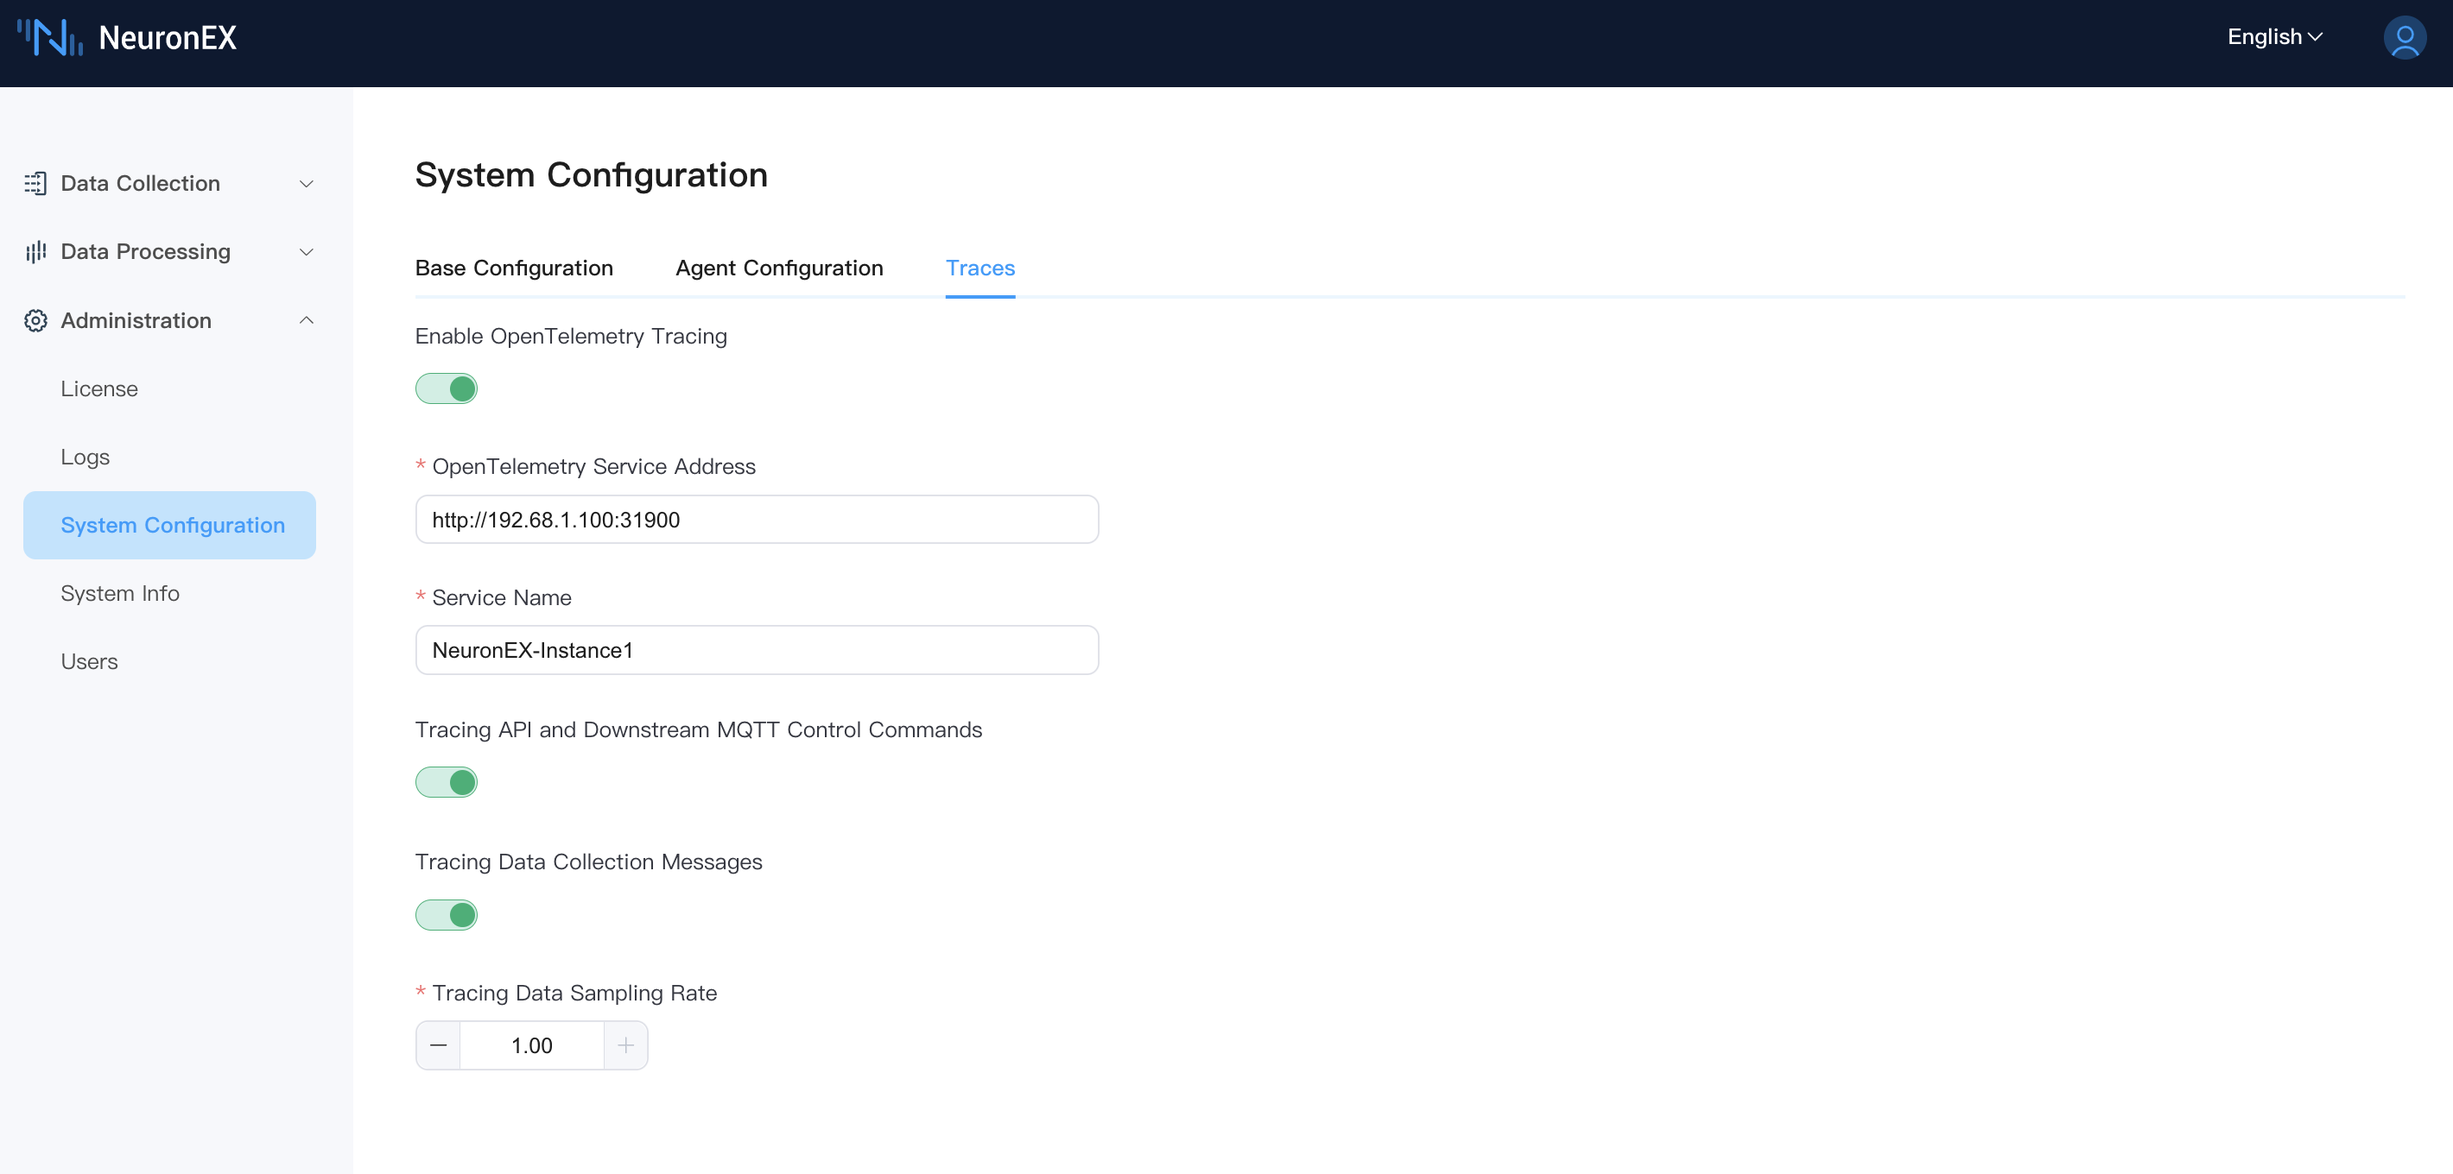
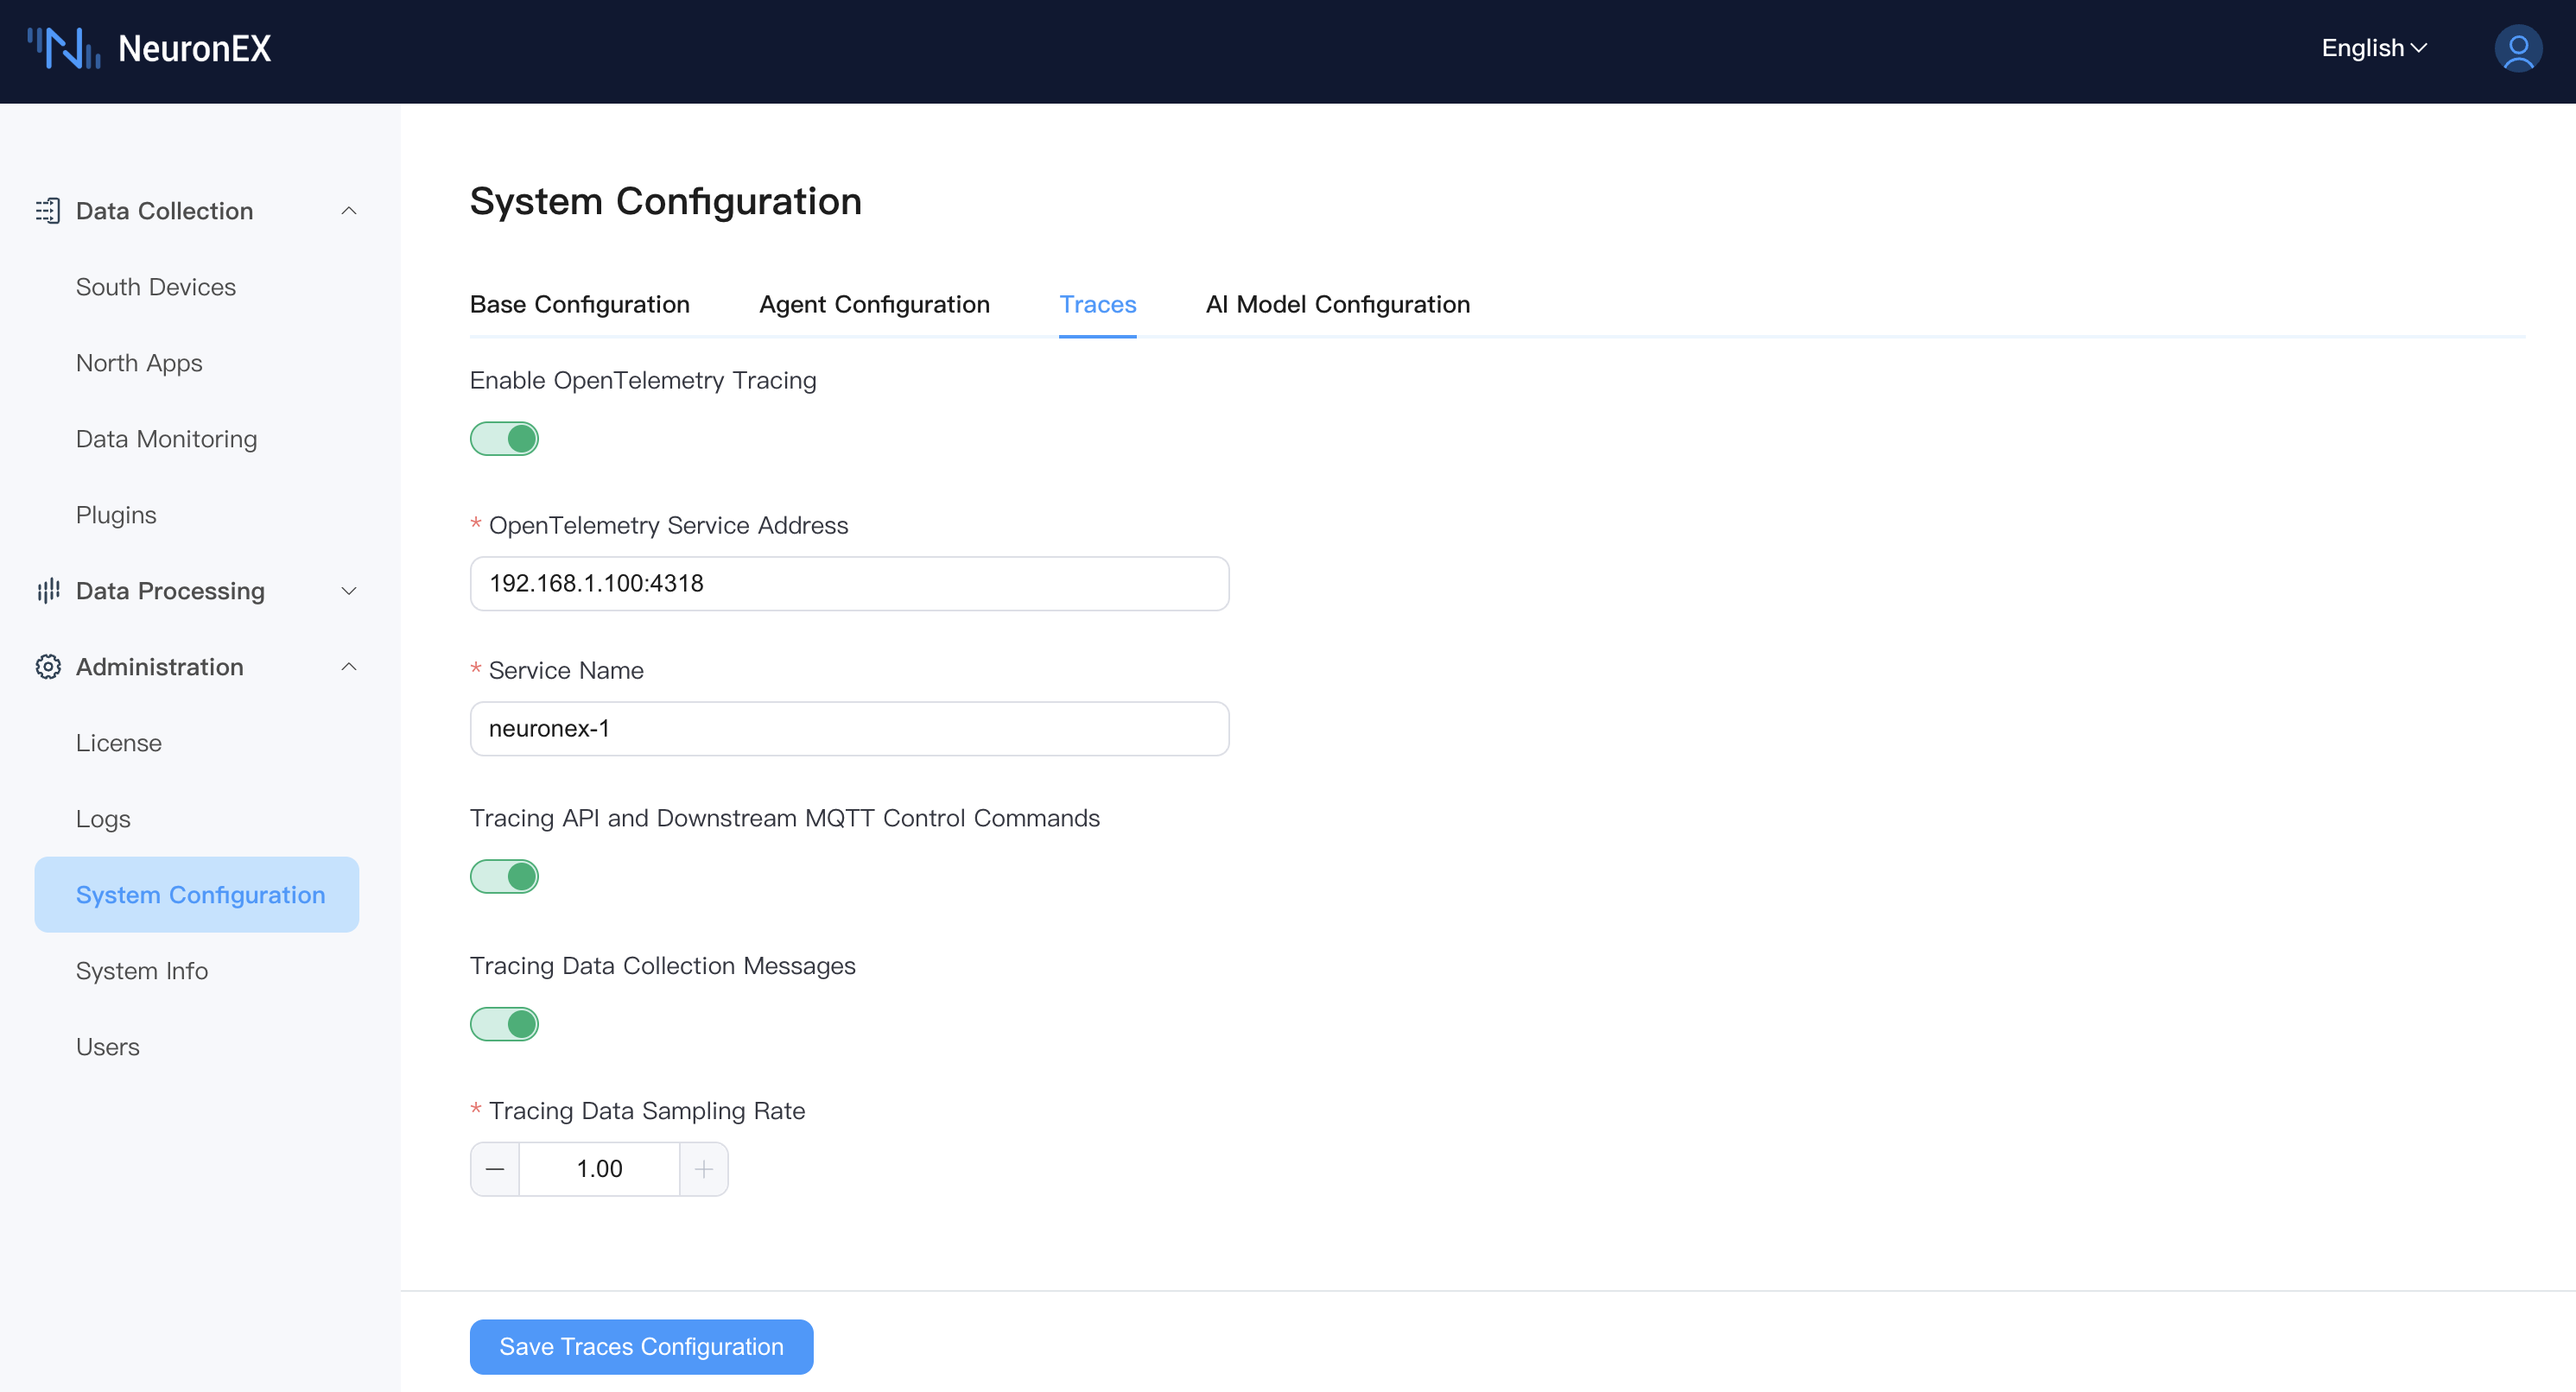
update trace

diff --git a/en_US/admin/sys-configuration.md b/en_US/admin/sys-configuration.md
@@ -131,9 +131,16 @@ The traces function is used to trace the detailed processing of data collection,
 ### Configuration Instructions
 - **Enable OpenTelemetry Tracing**: Enable the tracing function.
 - **OpenTelemetry Service Address**: Fill in the OpenTelemetry service address, and NeuronEX will send tracing data to this address. EMQX ECP integrates the OpenTelemetry service, and users can directly use the OpenTelemetry service address of EMQX ECP.
+
+::: tip
+
+The OpenTelemetry service address of EMQX ECP should use the [ip]:[port] format, such as `192.168.1.100:4318`, without the `http://` prefix.
+
+:::
+
 - **Service Name**: Fill in the service name. When NeuronEX reports tracing data, it will use this service name to distinguish the tracing data reported by different NeuronEX.
 - **Tracing API and Downstream MQTT Control Commands**: Enable tracing for API and downlink MQTT control commands. If using downlink MQTT control commands, the MQTT plugin's MQTT version must be set to 5.0 on the northbound application page.
-- **Tracing Data Collection Messages**: Enable tracing for data collection messages. Once enabled, NeuronEX will report all tracing data of southbound driver collection messages to the OpenTelemetry service. (Currently only supports FINS TCP and FINS UDP drivers)
+- **Tracing Data Collection Messages**: Enable tracing for data collection messages. Once enabled, NeuronEX will report all tracing data of southbound driver collection messages to the OpenTelemetry service. (Currently only supports FINS TCP、FINS UDP、Mitsubishi 3E、Mewtocol、Modbus RTU/TCP  drivers)
 - **Tracing Data Sampling Rate**: Fill in the tracking data sampling rate. Range: `0-1`.  1 indicates a 100% sampling rate for full tracing, while 0.1 indicates a 10% sampling rate for tracing. This parameter is only valid when `Tracing Data Collection Messages` is enabled.
 
 :::tip 

diff --git a/zh_CN/admin/sys-configuration.md b/zh_CN/admin/sys-configuration.md
@@ -135,11 +135,15 @@ Scope、Grant Type、Request Method 和 Content Type 字段需要根据平台要
 
 - **OpenTelemetry 服务地址** : 填写 OpenTelemetry 服务地址，NeuronEX 将追踪数据发送到该地址。 EMQX ECP 软件集成了 OpenTelemetry 服务，用户可直接使用 EMQX ECP 的 OpenTelemetry 服务地址。
 
+::: tip
+EMQX ECP 的 OpenTelemetry 服务地址请使用[ip]:[port]方式，例如`192.168.1.100:4318`，不要带有 `http://` 前缀。
+:::
+
 - **服务名称** : 填写服务名称，NeuronEX 上报追踪数据时，将使用该服务名称，用于区分不同 NeuronEX 上报的追踪数据。
 
 - **追踪 API 及下行 MQTT 控制指令** : 开启追踪 API 及下行 MQTT 控制指令。如使用下行 MQTT 控制指令，还需要在北向应用页面将 MQTT 插件的`MQTT版本`设置为`5.0`。
 
-- **追踪数据采集消息** : 开启追踪数据采集消息，开启后，NeuronEX 将所有南向驱动采集消息的追踪数据上报到 OpenTelemetry 服务。（目前仅支持 FINS TCP 和 FINS UDP 驱动）
+- **追踪数据采集消息** : 开启追踪数据采集消息，开启后，NeuronEX 将所有南向驱动采集消息的追踪数据上报到 OpenTelemetry 服务。（目前仅支持 FINS TCP、FINS UDP、Mitsubishi 3E、Mewtocol、 Modbus RTU/TCP  驱动）
 
 - **追踪数据采样率** : 填写追踪数据采样率。范围：0-1。1表示100%采样率全量追踪，0.1表示10%采样率追踪。仅在**开启追踪数据采集消息**时，该参数有效。
 
@@ -148,7 +152,6 @@ Scope、Grant Type、Request Method 和 Content Type 字段需要根据平台要
 开启链路追踪功能后，NeuronEX 会产生一定的性能开销，请根据实际需求开启。
 
 :::
-
 
 ![traces_zh](assets/traces_zh.png)
 
